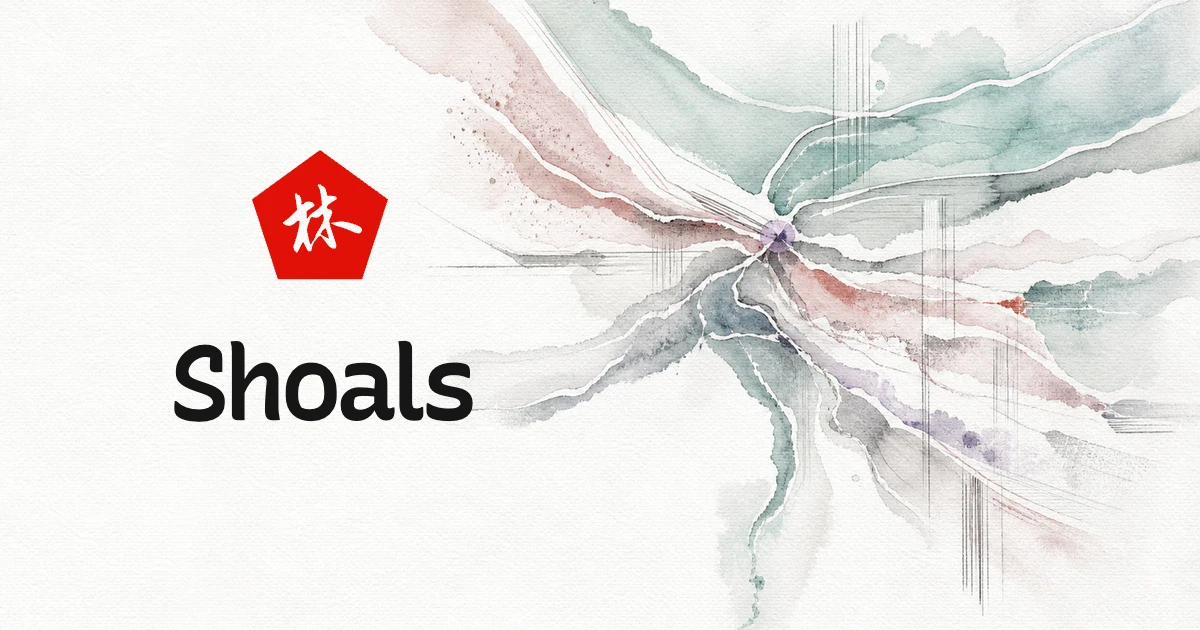
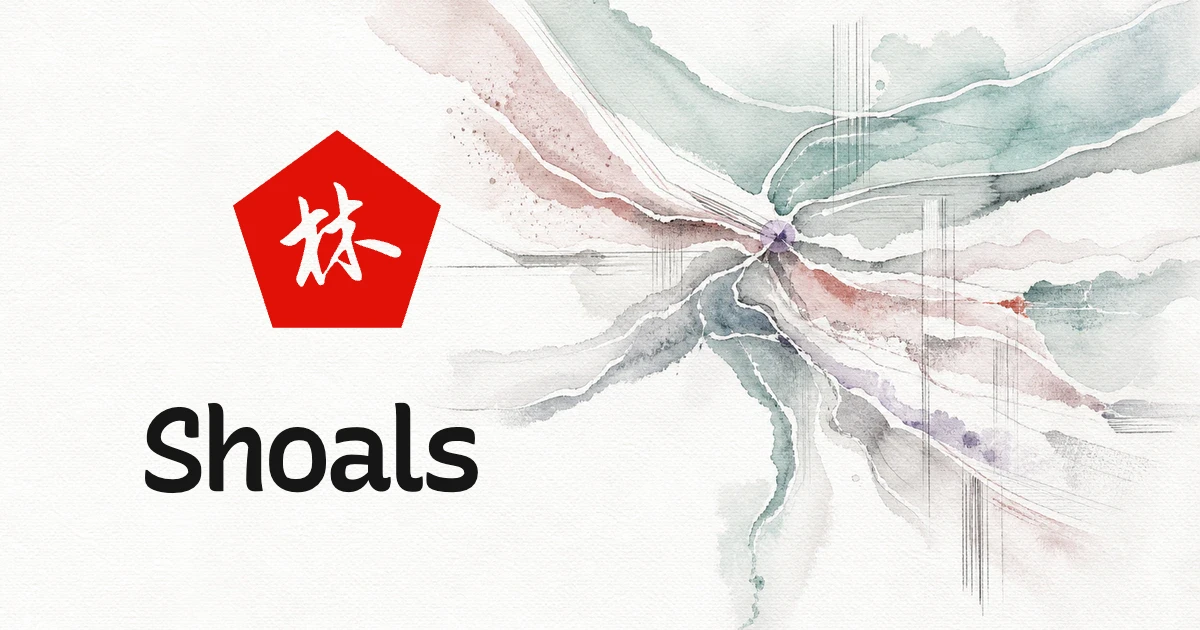
Strengthen social card identity

Changed region(s): [[0.1233, 0.2111, 0.4008, 0.7841]]

diff --git a/index.html b/index.html
@@ -14,8 +14,8 @@
     <meta property="og:url" content="https://a9l.im/shoals">
     <meta property="og:site_name" content="a9l.im">
     <meta name="twitter:card" content="summary_large_image">
-    <meta property="og:image" content="https://a9l.im/shoals/og-image.webp?v=20260725d">
-    <meta name="twitter:image" content="https://a9l.im/shoals/og-image.webp?v=20260725d">
+    <meta property="og:image" content="https://a9l.im/shoals/og-image.webp?v=20260725e">
+    <meta name="twitter:image" content="https://a9l.im/shoals/og-image.webp?v=20260725e">
     <meta name="twitter:image:alt" content="Shoals — options trading and politics simulator by a9l.im">
     <meta property="og:image:width" content="1200">
     <meta property="og:image:height" content="630">
